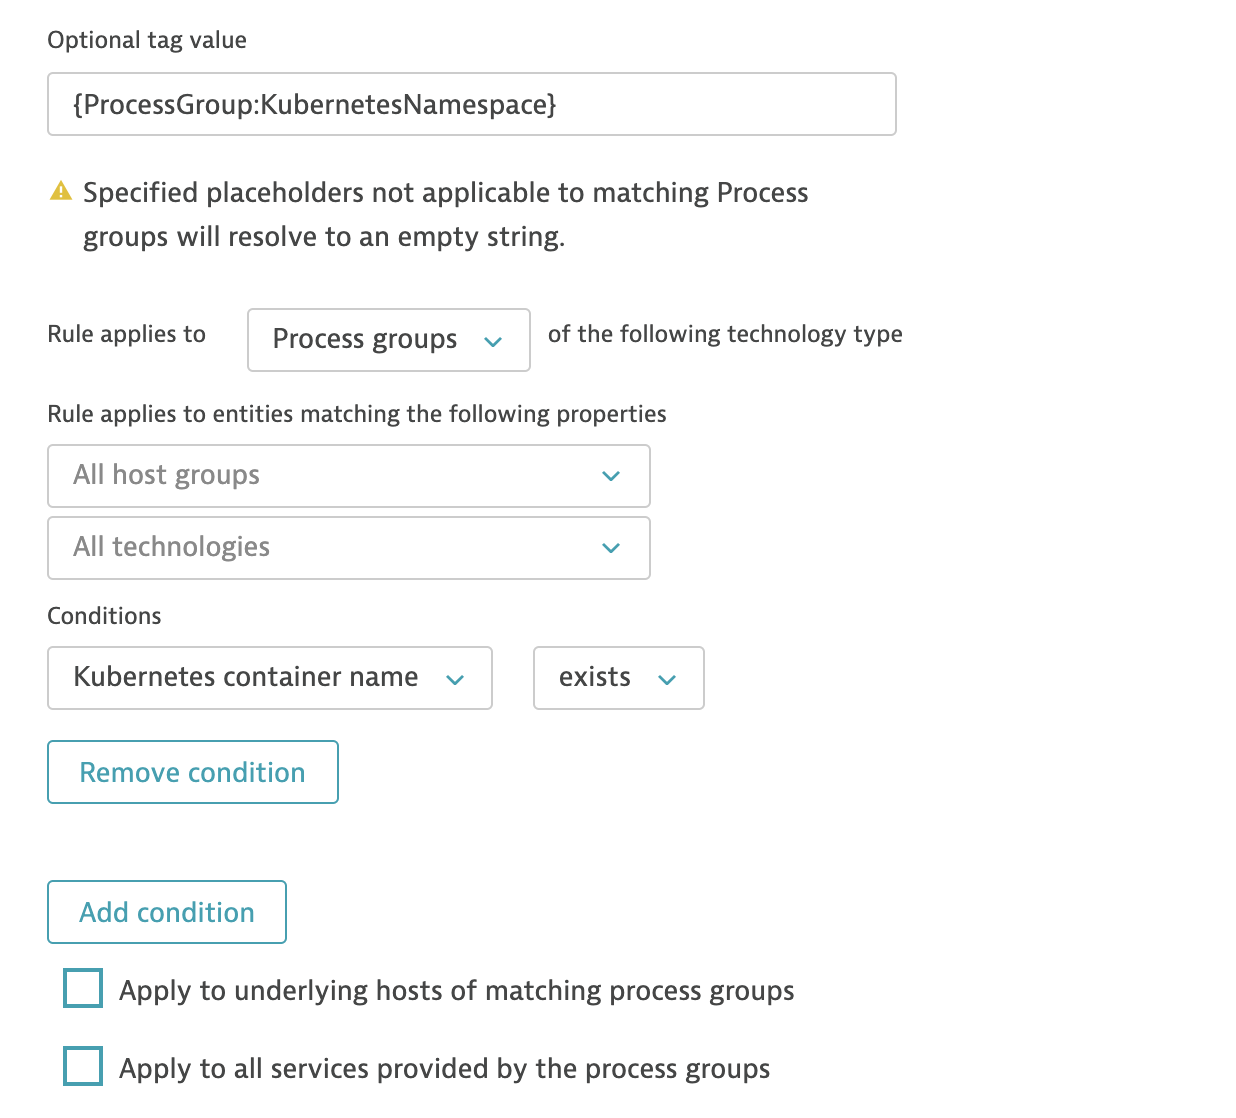
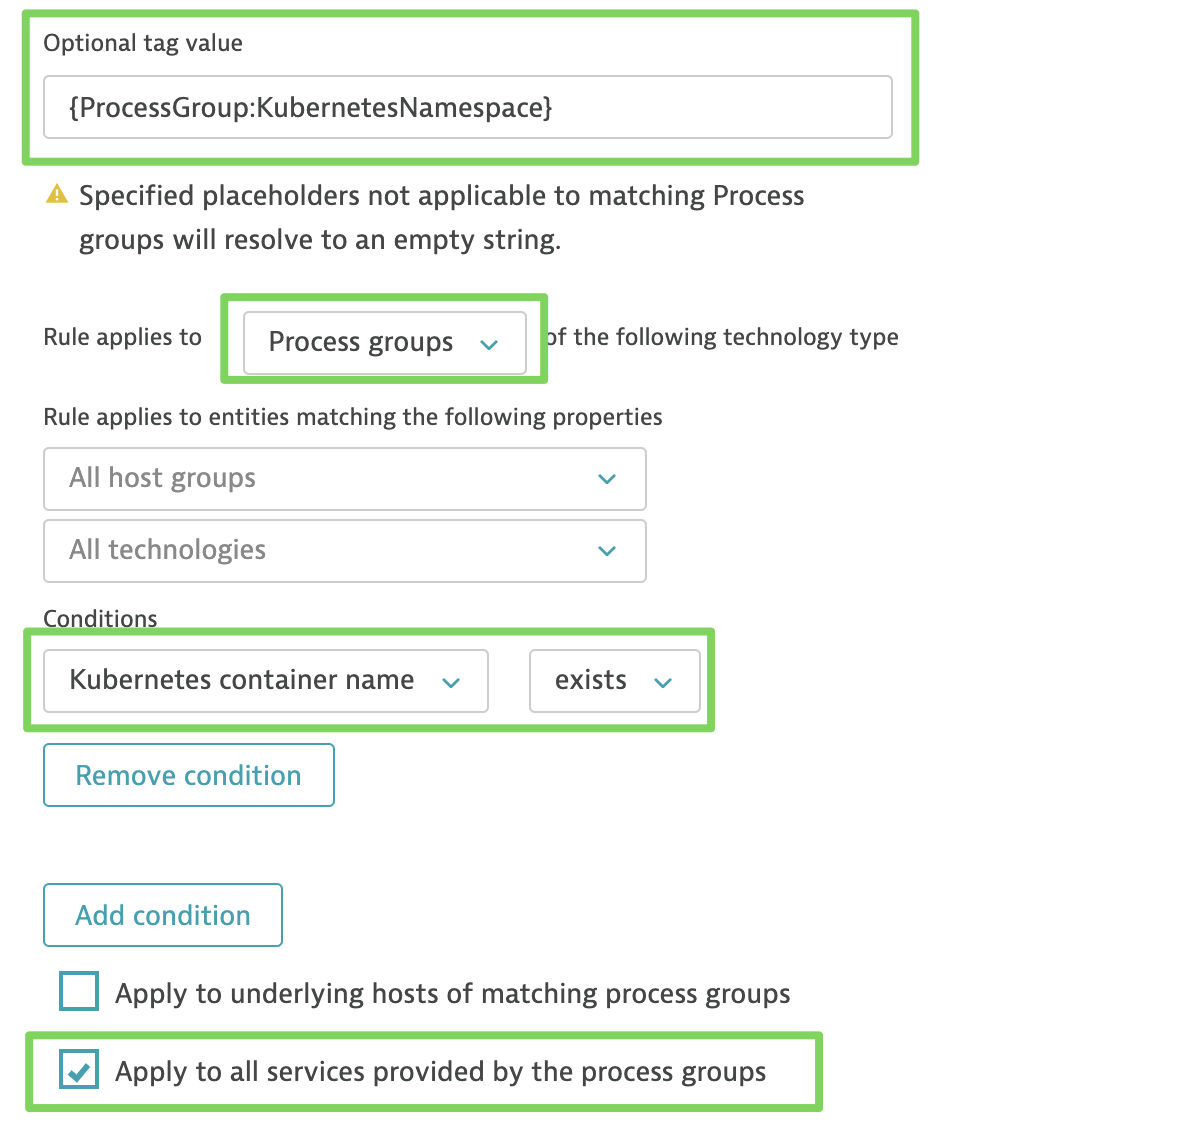
add checkmark instructions

Changed region(s): [[0.0, 0.0, 0.7812, 0.7299], [0.0, 0.7603, 0.7188, 1.0], [0.0312, 0.2737, 0.0625, 0.3041]]

diff --git a/README.md b/README.md
@@ -54,6 +54,7 @@ TODO: add instructions with images how to get the API and PaaS token from dynatr
         - Optional tag value: `{ProcessGroup:KubernetesContainerName}` 
         - Rule applies to: `process groups` 
         - Conditions: `Kubernetes container name` `exists`
+        - Add checkmark for **Apply to all services provided by the process groups** 
         
         ![tag app](./images/tag-app.png)
 
@@ -63,6 +64,7 @@ TODO: add instructions with images how to get the API and PaaS token from dynatr
         - Optional tag value: `{ProcessGroup:KubernetesNamespace}` 
         - Rule applies to: `process groups`
         - Conditions: `Kubernetes container name` `exists`
+        - Add checkmark for **Apply to all services provided by the process groups** 
 
         ![tag env](./images/tag-environment.png)
     
